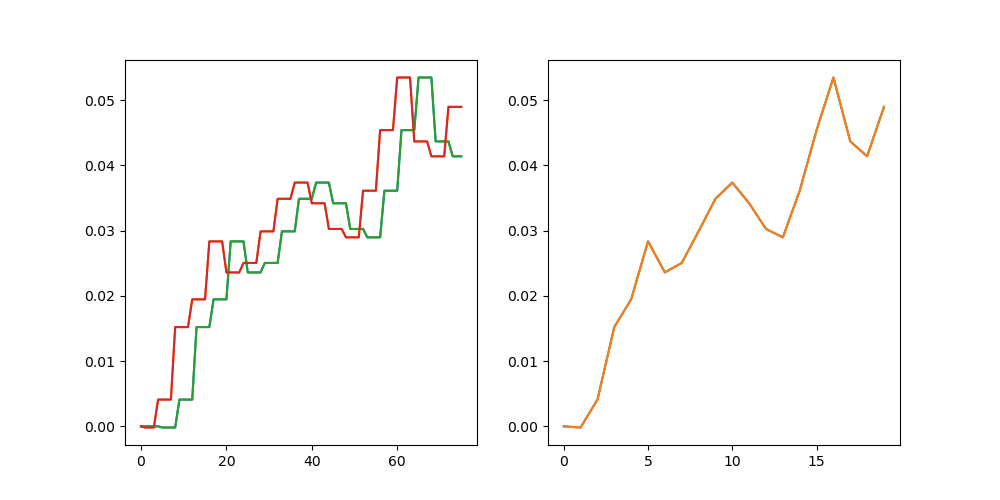
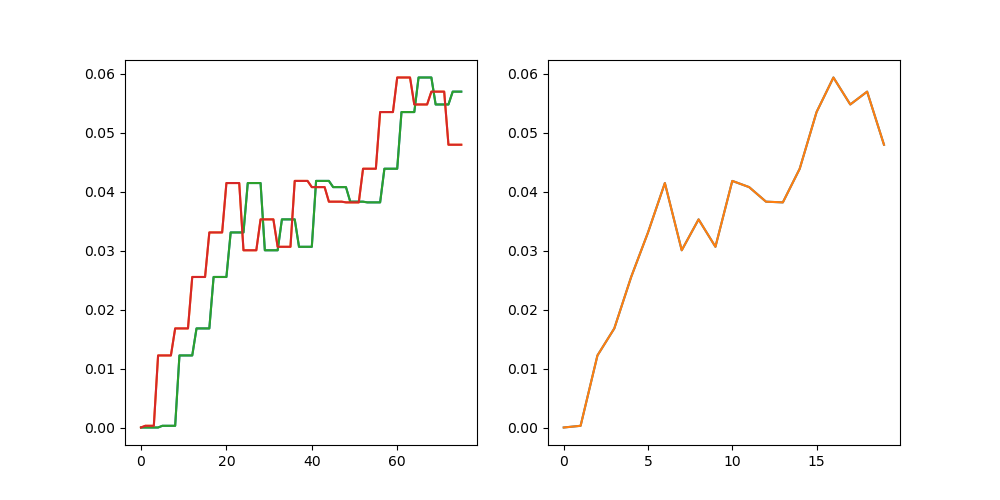
improve hoff l.ead lead function and test it

diff --git a/optimisation/mv_script.py b/optimisation/mv_script.py
@@ -85,48 +85,52 @@ gpm = mogptk.SM_LMC(gpm_dataset, Q=Q, inference=mogptk.Exact())
 gpm.init_parameters(init_method)
 loss,error = gpm.train(method=method, lr=0.01, iters=1000, verbose=False, plot=False)
 
-dim = N
+# dim = N
 word_concatenate_shuffle_dict = word_concatenate_shuffle(level,level)
 
 # generate a list containing paths of each channels
-n_samples = 1000
+n_samples = 100
 time_steps = len(df2.index)
 X = gpm.sample(np.linspace(0,1,time_steps),n=n_samples)
 # rearrange the result into (number_of_paths,time_step+1,dim)
 paths = np.concatenate([x.T.reshape(-1,time_steps,1) for x in X],axis=2)
 # normalize with the mean of the price at time 0
 paths /= np.mean(paths[:,0],axis=0)
-time_inds = np.expand_dims(np.stack([np.linspace(0,1,time_steps) for _ in range(n_samples)], axis=0), axis=2)
+# time_inds = np.expand_dims(np.stack([np.linspace(0,1,time_steps) for _ in range(n_samples)], axis=0), axis=2)
 # print(time_inds.shape)
 
 paths = subtract_first_row(paths)
-dim = N +1
+dim = N + 1
 # dim = N
-paths = np.concatenate((time_inds, paths), axis=2)
+# paths = np.concatenate((time_inds, paths), axis=2)
 
 # print(paths.shape)
-print(paths[0])
+# print(paths[0])
 lengths = [len(df.index) for df in df_split]
 path_list = [paths[:, :length, :] for length in lengths]
 
 
 # # apply transformations to paths
-# path_list = [HoffLeadLag(path) for path in path_list]
+hoff_path_list = [HoffLeadLag(path) for path in path_list]
 print(path_list[-1][0])
 
-tensor_path = torch.tensor(paths, device=device)
-# print(tensor_path.shape)
+# tensor_path = torch.tensor(paths, device=device)
+# # print(tensor_path.shape)
 
-# compute expected signature
-signature = signatory.signature(tensor_path,level*2).mean(axis=0)
+# # compute expected signature
+# signature = signatory.signature(tensor_path,level*2).mean(axis=0)
 
-# add zero level to the signature
-signature = np.concatenate([[1],np.array(signature.cpu())])
+# # add zero level to the signature
+# signature = np.concatenate([[1],np.array(signature.cpu())])
 
 # do the same as the above but for time points specified above
 tensor_path_list = [torch.tensor(path, device=device) for path in path_list]
 signature_list = [signatory.signature(path, level*2).mean(axis=0) for path in tensor_path_list]
 signature_list = [np.concatenate([[1],np.array(sig.cpu())]) for sig in signature_list]
+
+hoff_tensor_path_list = [torch.tensor(path, device=device) for path in hoff_path_list]
+hoff_signature_list = [signatory.signature(path, level*2).mean(axis=0) for path in hoff_tensor_path_list]
+hoff_signature_list = [np.concatenate([[1],np.array(sig.cpu())]) for sig in hoff_signature_list]
 
 
 start0 = time.time()
@@ -135,8 +139,8 @@ start0 = time.time()
 #     [integration_functional_coeff(signature,dim,level,i) for i in range(dim)]).reshape(1,-1)
 # var_coeff = get_sig_variance(signature,word_concatenate_shuffle_dict,dim,level)
 
-mean_weights_list = [np.array([integration_functional_coeff(sig,dim,level,i) for i in range(dim)]).reshape(1,-1) for sig in signature_list] # change dim here for hoff
-var_coeff_list = [get_sig_variance(sig,word_concatenate_shuffle_dict,dim,level) for sig in signature_list]
+mean_weights_list = [np.array([integration_functional_coeff(sig,dim,level,i) for i in range(dim, 2*dim)]).reshape(1,-1) for sig in hoff_signature_list] # change dims here for hoff
+var_coeff_list = [get_sig_variance(sig,word_concatenate_shuffle_dict,dim,level, hoff=True) for sig in hoff_signature_list]
 weights_sum_list = [get_weights_sum_coeff(sig,dim,level) for sig in signature_list]
 
 # # get coefficients of a^i_w in weights and weight sum functions 
@@ -150,6 +154,16 @@ orig_tpath_list = [torch.tensor(path, device=device) for path in orig_path_list]
 orig_sig_list = [signatory.signature(path, level*2).mean(axis=0) for path in orig_tpath_list]
 print(orig_sig_list[0].shape)
 orig_sig_list = [np.concatenate([[1],np.array(sig.cpu())]) for sig in orig_sig_list]
+
+# dim = N + 1
+# A_mats = []
+# for sig in signature_list:
+#     mat = []
+#     for i in range(dim):
+#         print(get_weights_coeff(sig,i,dim,level))
+#         mat.append(get_weights_coeff(sig,i,dim,level))
+#     A_mats.append(np.array(mat))
+# print(get_weights_coeff(signature_list[-1],2,dim,level))
 A_mats = [np.array([get_weights_coeff(sig,i,dim,level) for i in range(dim)]) for sig in signature_list]
 # A_mats = [np.array([get_weights_coeff(sig,i,dim,level) for i in range(dim)]) for sig in orig_sig_list]
 # sig_len = length_of_signature(dim,level)
@@ -165,7 +179,7 @@ def signature_mean_variance_optim(exp_return, var_coeff=var_coeff_list[-1], mean
     cons = ({'type': 'eq', 'fun': lambda coeff: np.squeeze(mean_weights)@coeff-exp_return},
                        {'type': 'eq', 'fun': lambda coeff: weights_sum@coeff-1},
                        LinearConstraint(A,lb=np.zeros(dim),ub=np.ones(dim)),
-                       {'type': 'eq', 'fun': lambda coeff: (A@coeff)[0]} # only enable if time aug
+                    #    {'type': 'eq', 'fun': lambda coeff: (A@coeff)[0]} # only enable if time aug
                        ) # time aug 
     
     res = minimize(object_function, np.ones(length_of_signature(dim,level)*dim), method='SLSQP',

diff --git a/optimisation/mv_utils.py b/optimisation/mv_utils.py
@@ -282,9 +282,9 @@ def get_sig_variance(signature,word_operation_dict,dim,level,hoff=False):
     sig_len = length_of_signature(dim,level)
     weights = np.zeros((sig_len*dim,sig_len*dim))
     if hoff:
-        for m in range(dim, 2*dim):
-            for n in range(dim, 2*dim):
-                weights[m*sig_len:(m+1)*sig_len,n*sig_len:(n+1)*sig_len] = squared_integration_functional(signature,word_operation_dict,dim,level,m,n)
+        for m_ind, m in enumerate(range(dim, 2*dim)):
+            for n_ind, n in enumerate(range(dim, 2*dim)):
+                weights[m_ind*sig_len:(m_ind+1)*sig_len,n_ind*sig_len:(n_ind+1)*sig_len] = squared_integration_functional(signature,word_operation_dict,dim,level,m,n)
         return weights
     else:
         for m in range(dim):
@@ -343,6 +343,7 @@ def HoffLeadLag(paths: np.ndarray, time_aug: bool=False) -> np.ndarray:
     if time_aug:
         paths = paths[:, :, 1:]
 
+    dim = paths.shape[2]
 
     _r = np.repeat(paths, 4, axis=1)
     _cpath = np.concatenate([_r[:, :-5], _r[:, 5:]], axis=2)
@@ -353,7 +354,7 @@ def HoffLeadLag(paths: np.ndarray, time_aug: bool=False) -> np.ndarray:
     n_samples = hoff_paths.shape[0]
 
     time_inds = np.expand_dims(np.stack([np.linspace(0,1,time_steps) for _ in range(n_samples)], axis=0), axis=2)
-    return np.concatenate((time_inds, hoff_paths), axis=2)
+    return np.concatenate((time_inds, hoff_paths[:, :, :dim], time_inds, hoff_paths[:, :, dim:]), axis=2)
 
 
 def subtract_first_row(paths: np.ndarray) -> np.ndarray:

diff --git a/optimisation/tests.py b/optimisation/tests.py
@@ -37,7 +37,7 @@ gpm = mogptk.SM_LMC(gpm_dataset, Q=Q, inference=mogptk.Exact())
 gpm.init_parameters(init_method)
 loss,error = gpm.train(method=method, lr=0.01, iters=1000, verbose=False, plot=False)
 
-dim = N
+dim = N + 1
 level = 2
 
 # generate a list containing paths of each channels
@@ -71,9 +71,9 @@ print(hoff_paths_t.shape)
 
 fig, axs = plt.subplots(1, 2, figsize=(10, 5))
 axs[0].plot(hoff_paths[0, :, 1])
-axs[0].plot(hoff_paths[0, :, N+1])
+axs[0].plot(hoff_paths[0, :, dim+1])
 axs[0].plot(hoff_paths_t[0, :, 1])
-axs[0].plot(hoff_paths_t[0, :, N+1])
+axs[0].plot(hoff_paths_t[0, :, dim+1])
 axs[1].plot(paths[0, :, 0])
 axs[1].plot(paths_t[0, :, 1])
 fig.show()
